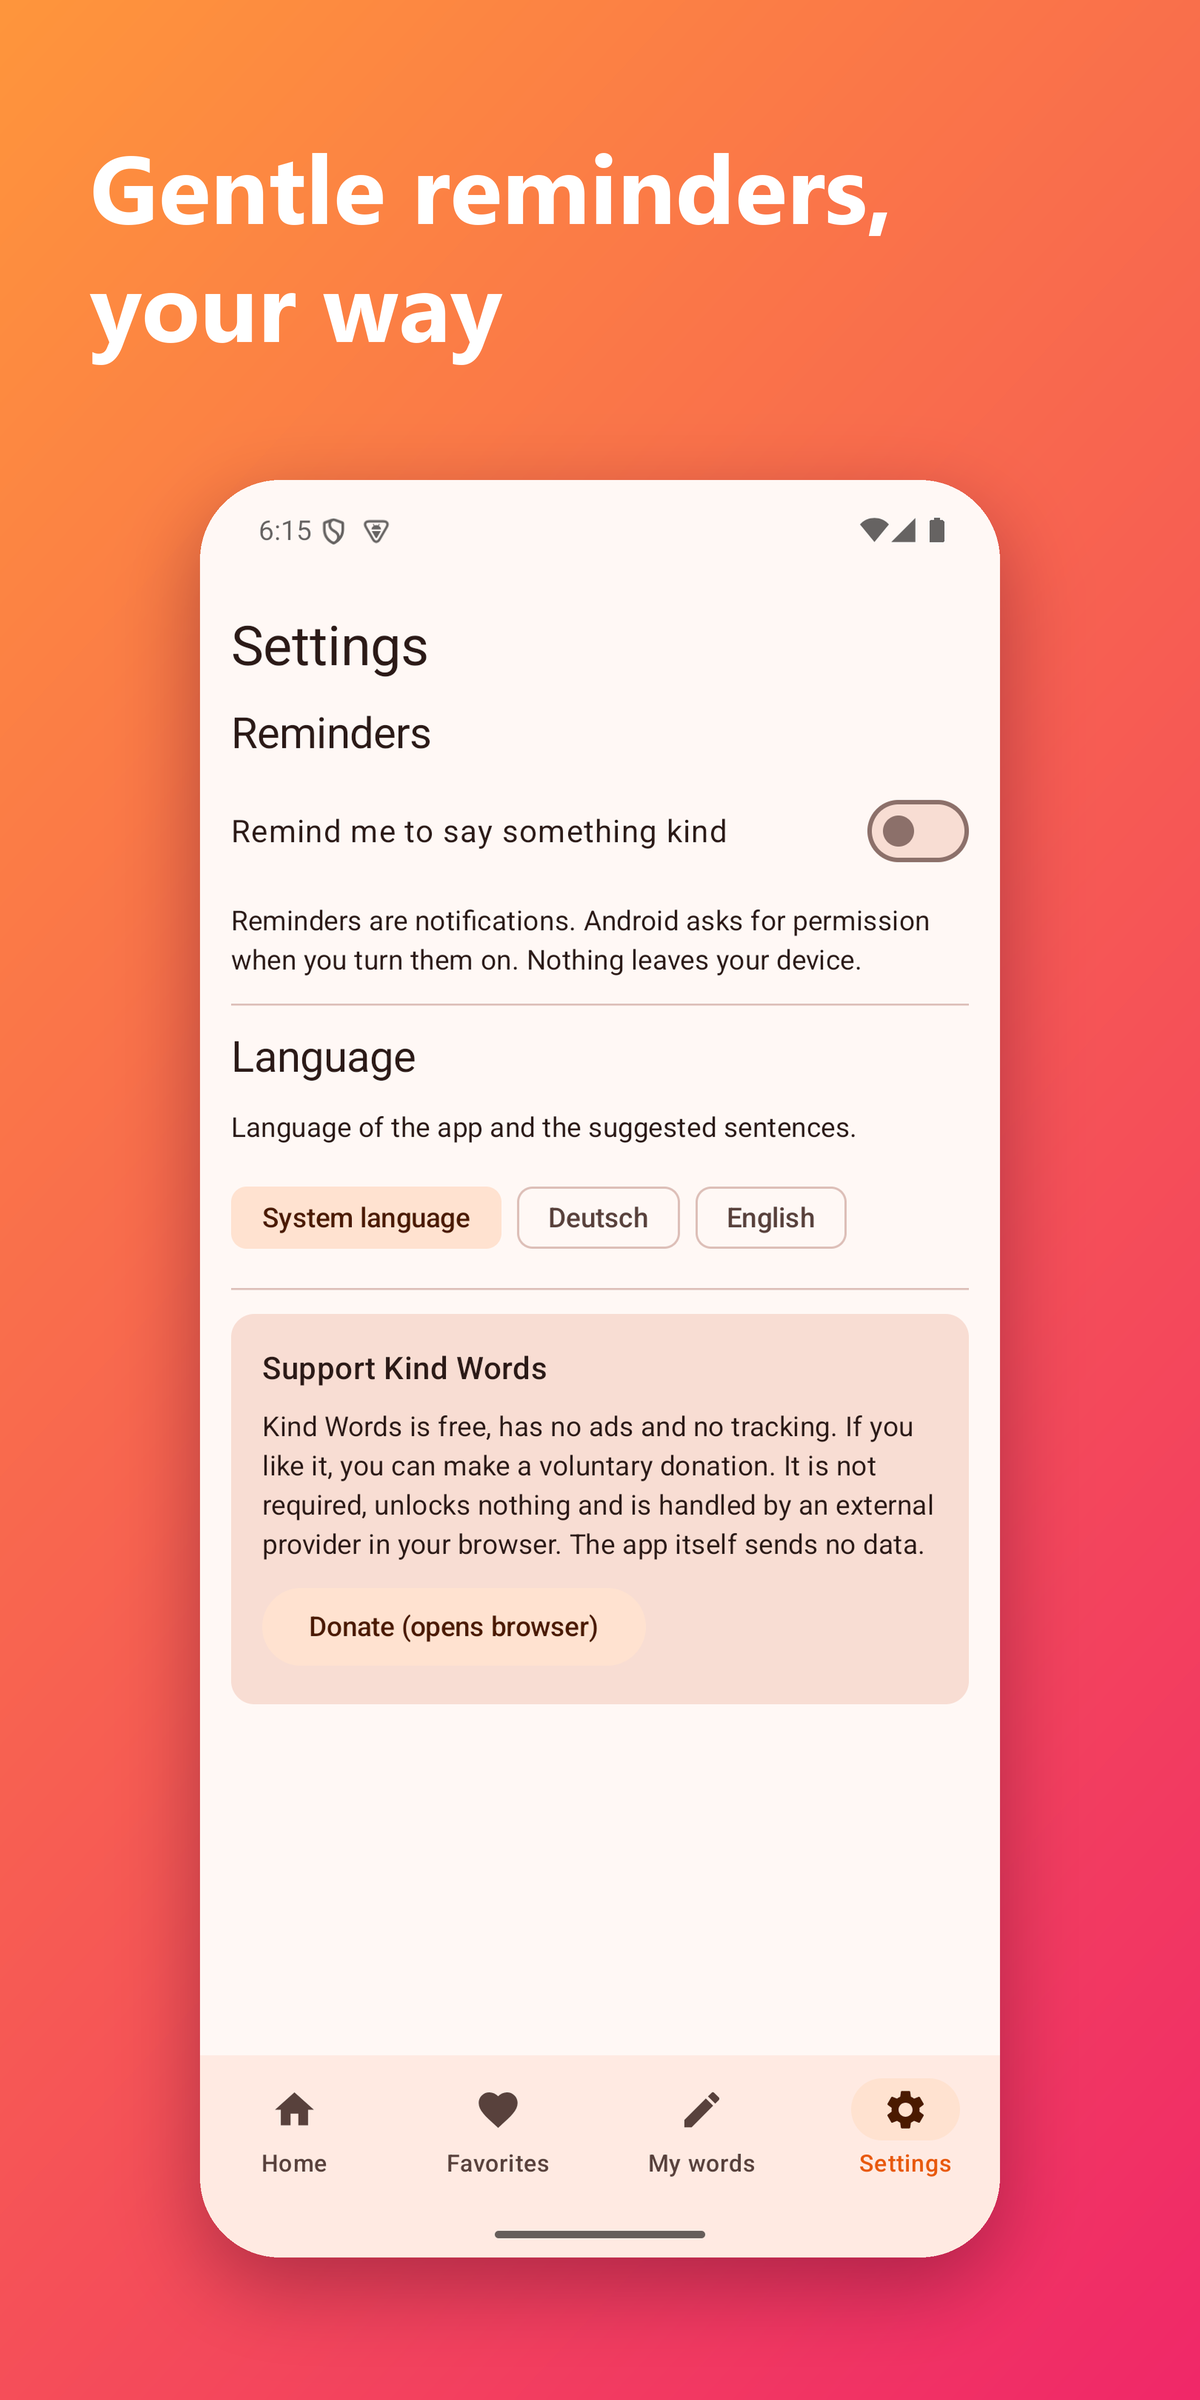
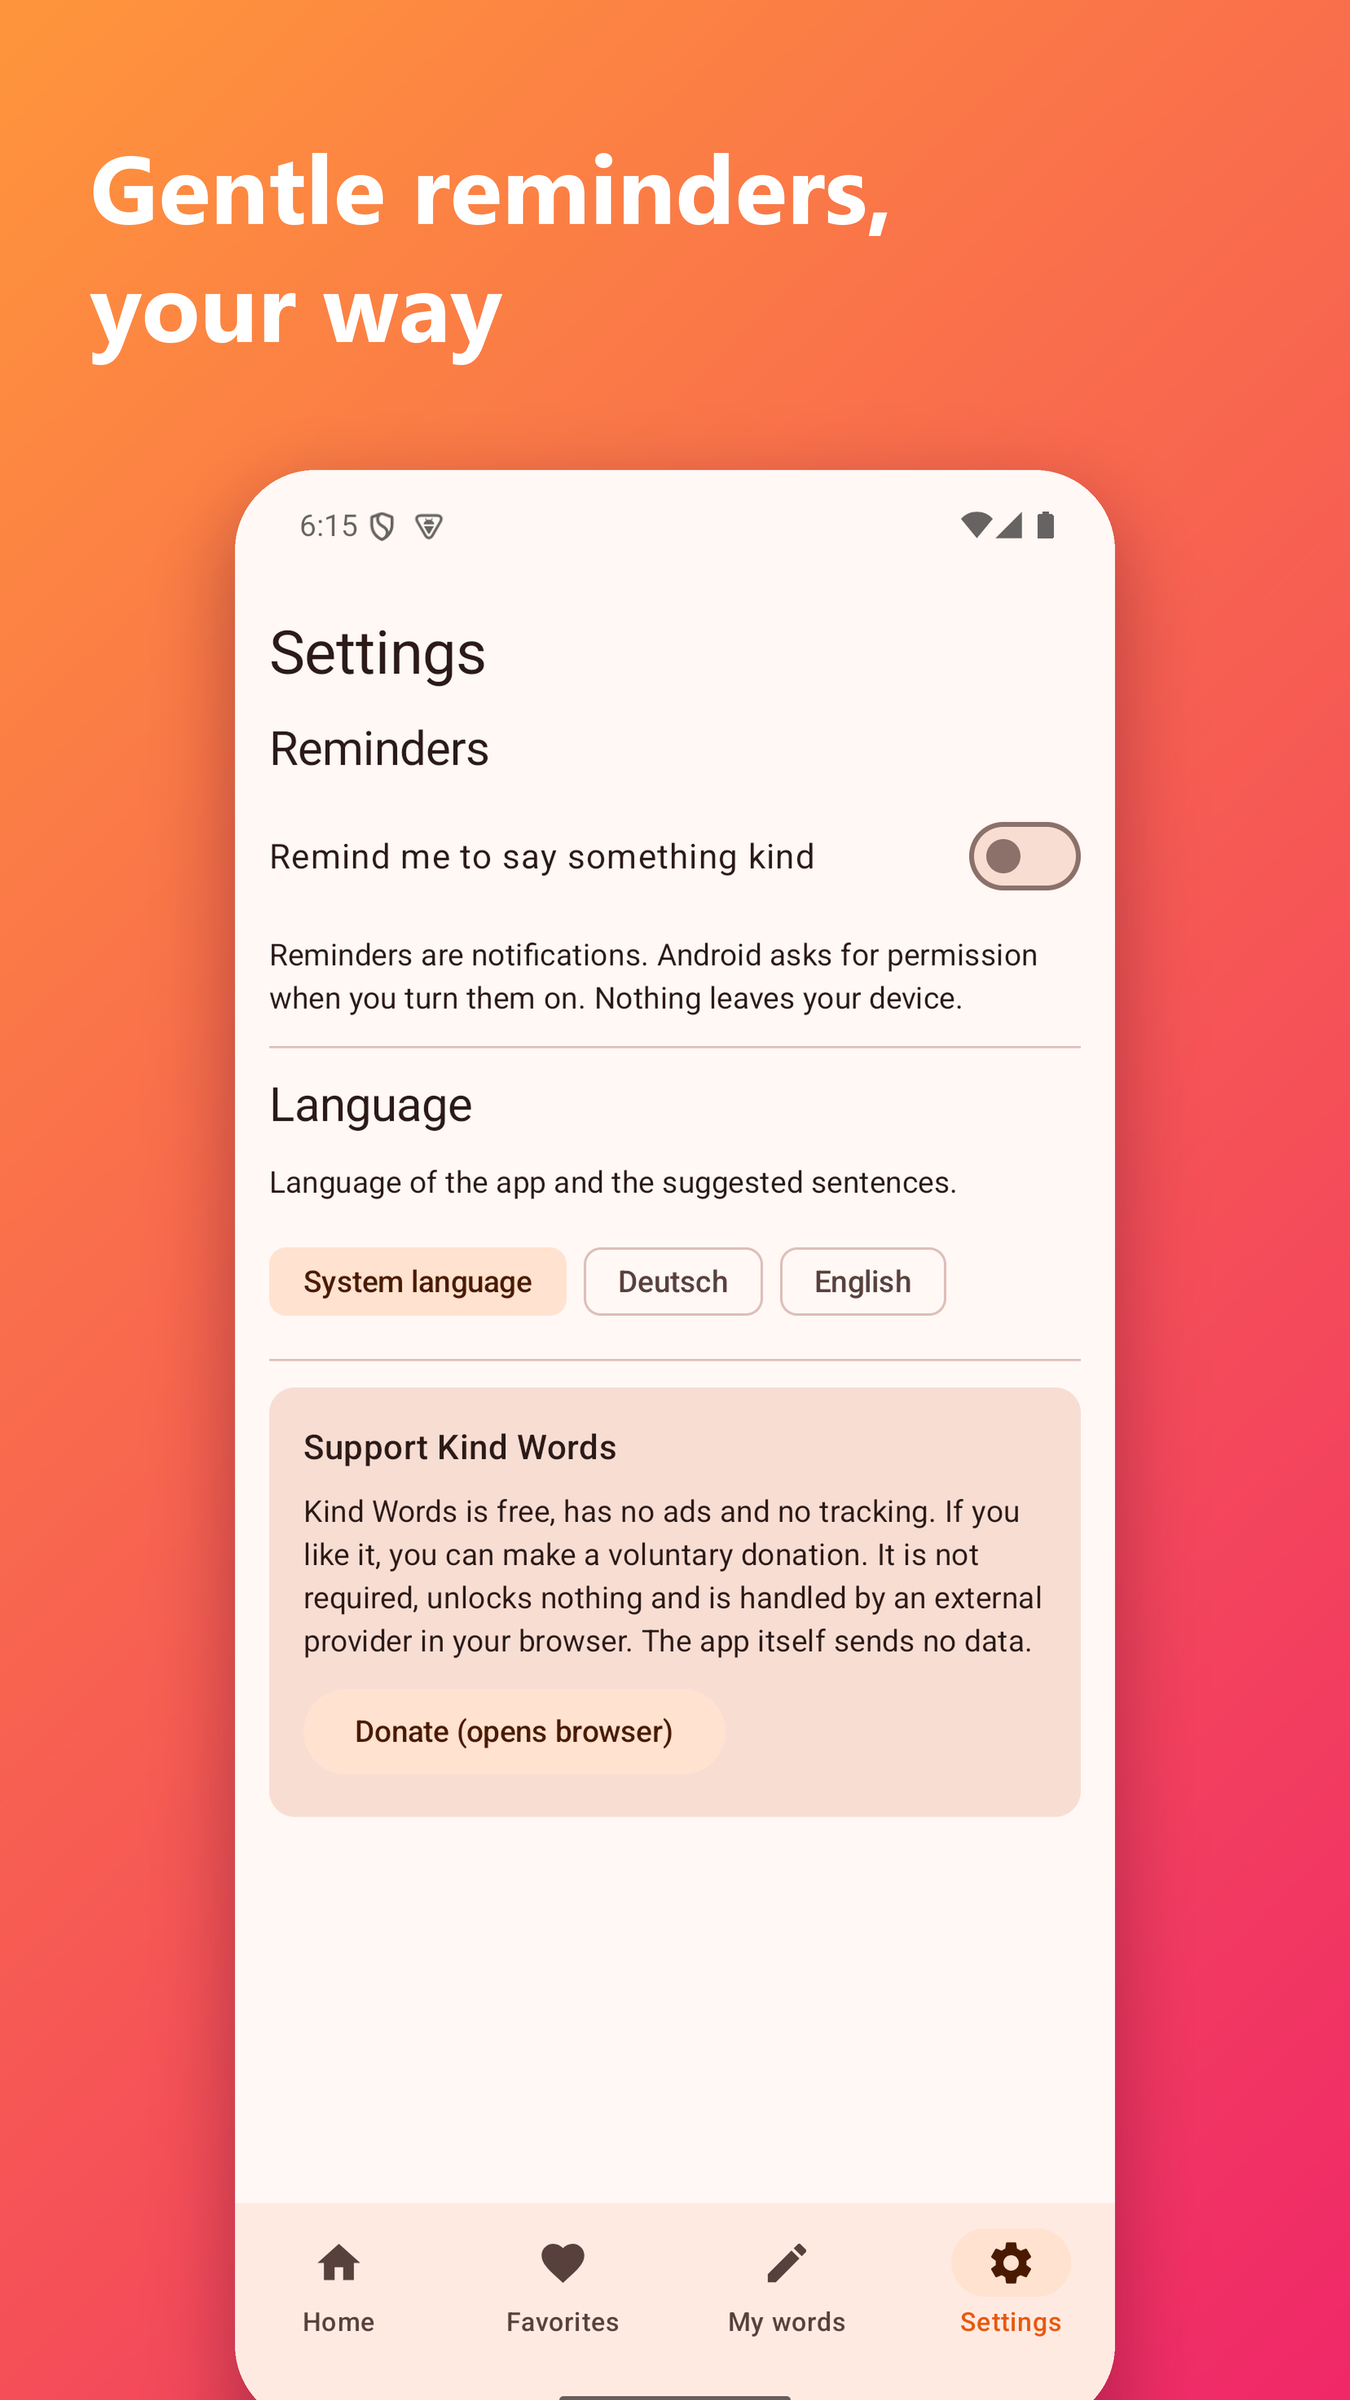
Screenshots in 9:16 for Play Console

diff --git a/store/tools/frame_screenshots.py b/store/tools/frame_screenshots.py
@@ -2,7 +2,7 @@
 
 Aufruf:  python -I store/tools/frame_screenshots.py   (nach capture_screenshots.py)
 Eingabe: store/graphics/screenshots/<lang>_<n>_<name>.png
-Ausgabe: store/graphics/play-screenshots/<lang>/<n>_<name>.png  (1200x2400, Verhaeltnis 1:2 - erlaubt)
+Ausgabe: store/graphics/play-screenshots/<lang>/<n>_<name>.png  (1350x2400, 9:16 wie von Play verlangt)
 """
 import os
 
@@ -11,7 +11,7 @@ from PIL import Image, ImageDraw, ImageFilter, ImageFont
 
 BASE = os.path.join(os.path.dirname(__file__), "..", "graphics")
 SRC = os.path.join(BASE, "screenshots")
-W, H = 1200, 2400
+W, H = 1350, 2400
 SS = 2
 
 CAPTIONS = {
@@ -46,12 +46,12 @@ def frame(shot_path, caption, out_path):
     d = ImageDraw.Draw(img)
     d.multiline_text((90 * SS, 120 * SS), caption, font=font(96 * SS), fill=(255, 255, 255), spacing=14 * SS)
     shot = Image.open(shot_path).convert("RGB")
-    pw = 800 * SS
+    pw = 880 * SS
     ph = int(shot.height * pw / shot.width)
     shot = shot.resize((pw, ph), Image.LANCZOS)
     mask = Image.new("L", (pw, ph), 0)
     ImageDraw.Draw(mask).rounded_rectangle((0, 0, pw - 1, ph - 1), radius=80 * SS, fill=255)
-    x, y = (w - pw) // 2, 480 * SS
+    x, y = (w - pw) // 2, 470 * SS
     sh = Image.new("L", (w, h), 0)
     sh.paste(mask.point(lambda v: int(v * 0.45)), (x, y + 30 * SS))
     sh = sh.filter(ImageFilter.GaussianBlur(40 * SS))
